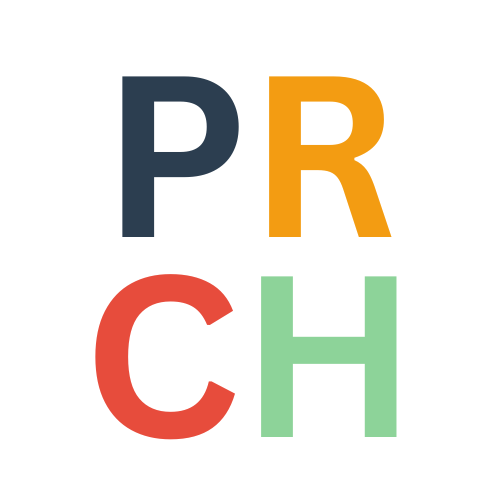
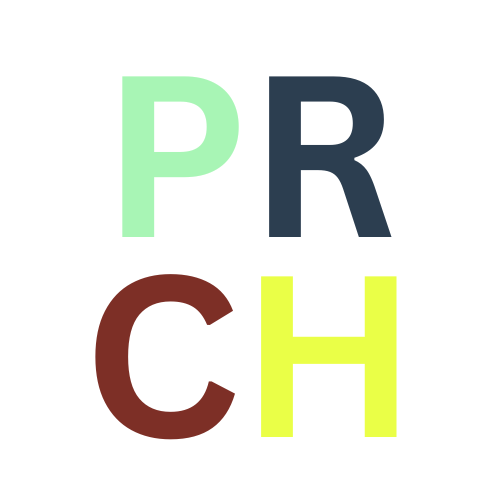
siteplan

diff --git a/prch/styles/siteplan.css b/prch/styles/siteplan.css
@@ -1,16 +1,15 @@
 :root {
-    --primary-color: #8dd399;
+    --primary-color: #a8f5b5;
     --secondary-color: #2c3e50;
-    --accent1-color: #f39c12;
-    --accent2-color: #e74c3c;
+    --accent1-color: #7d2f26;
+    --accent2-color: #eaff47;
 }
 
 body {
     font-family: 'Open Sans', sans-serif;
     line-height: 1.6;
     padding: 20px;
-    background-color: #ecf0f1;
-    color: var(--secondary-color);
+    background-color: var(--secondary-color);
 }
 
 img {
@@ -20,6 +19,7 @@ img {
 
 figcaption {
     text-align: center;
+    color: var(--accent1-color);
 }
 
 h1,
@@ -29,17 +29,17 @@ h2 {
 }
 
 h1 {
-    color: var(--secondary-color);
+    color: var(--primary-color);
 }
 
 h2 {
-    color: var(--primary-color);
+    color: var(--secondary-color);
 }
 
 section {
     margin-bottom: 20px;
     padding: 15px;
-    background: #ffffff;
+    background-color: #ffffff;
     border-radius: 8px;
     box-shadow: 0 2px 4px rgba(0, 0, 0, 0.1);
 }
@@ -51,7 +51,7 @@ section {
 }
 
 .site-purpose-page-list {
-    color: var(--accent1-color);
+    background-color: var(--accent2-color);
     text-decoration: solid;
 }
 
@@ -61,6 +61,7 @@ ul {
 
 footer {
     text-align: center;
+    color: var(--primary-color);
 }
 
 @media (max-width: 768px) {

diff --git a/prch/siteplan.html b/prch/siteplan.html
@@ -62,10 +62,10 @@
     <section>
         <h2>Color Schema</h2>
         <ul>
-            <li><strong>Primary Color:</strong> #8dd399 (Pastel Green)</li>
+            <li><strong>Primary Color:</strong> #a8f5b5 (Pastel Green)</li>
             <li><strong>Secondary Color:</strong> #2c3e50 (Dark Blue)</li>
-            <li><strong>Accent 1 Color:</strong> #f39c12 (Orange)</li>
-            <li><strong>Accent 2 Color:</strong> #e74c3c (Red)</li>
+            <li><strong>Accent 1 Color:</strong> #7d2f26 (Dark Red)</li>
+            <li><strong>Accent 2 Color:</strong> #eaff47 (Yellow)</li>
         </ul>
     </section>
 
